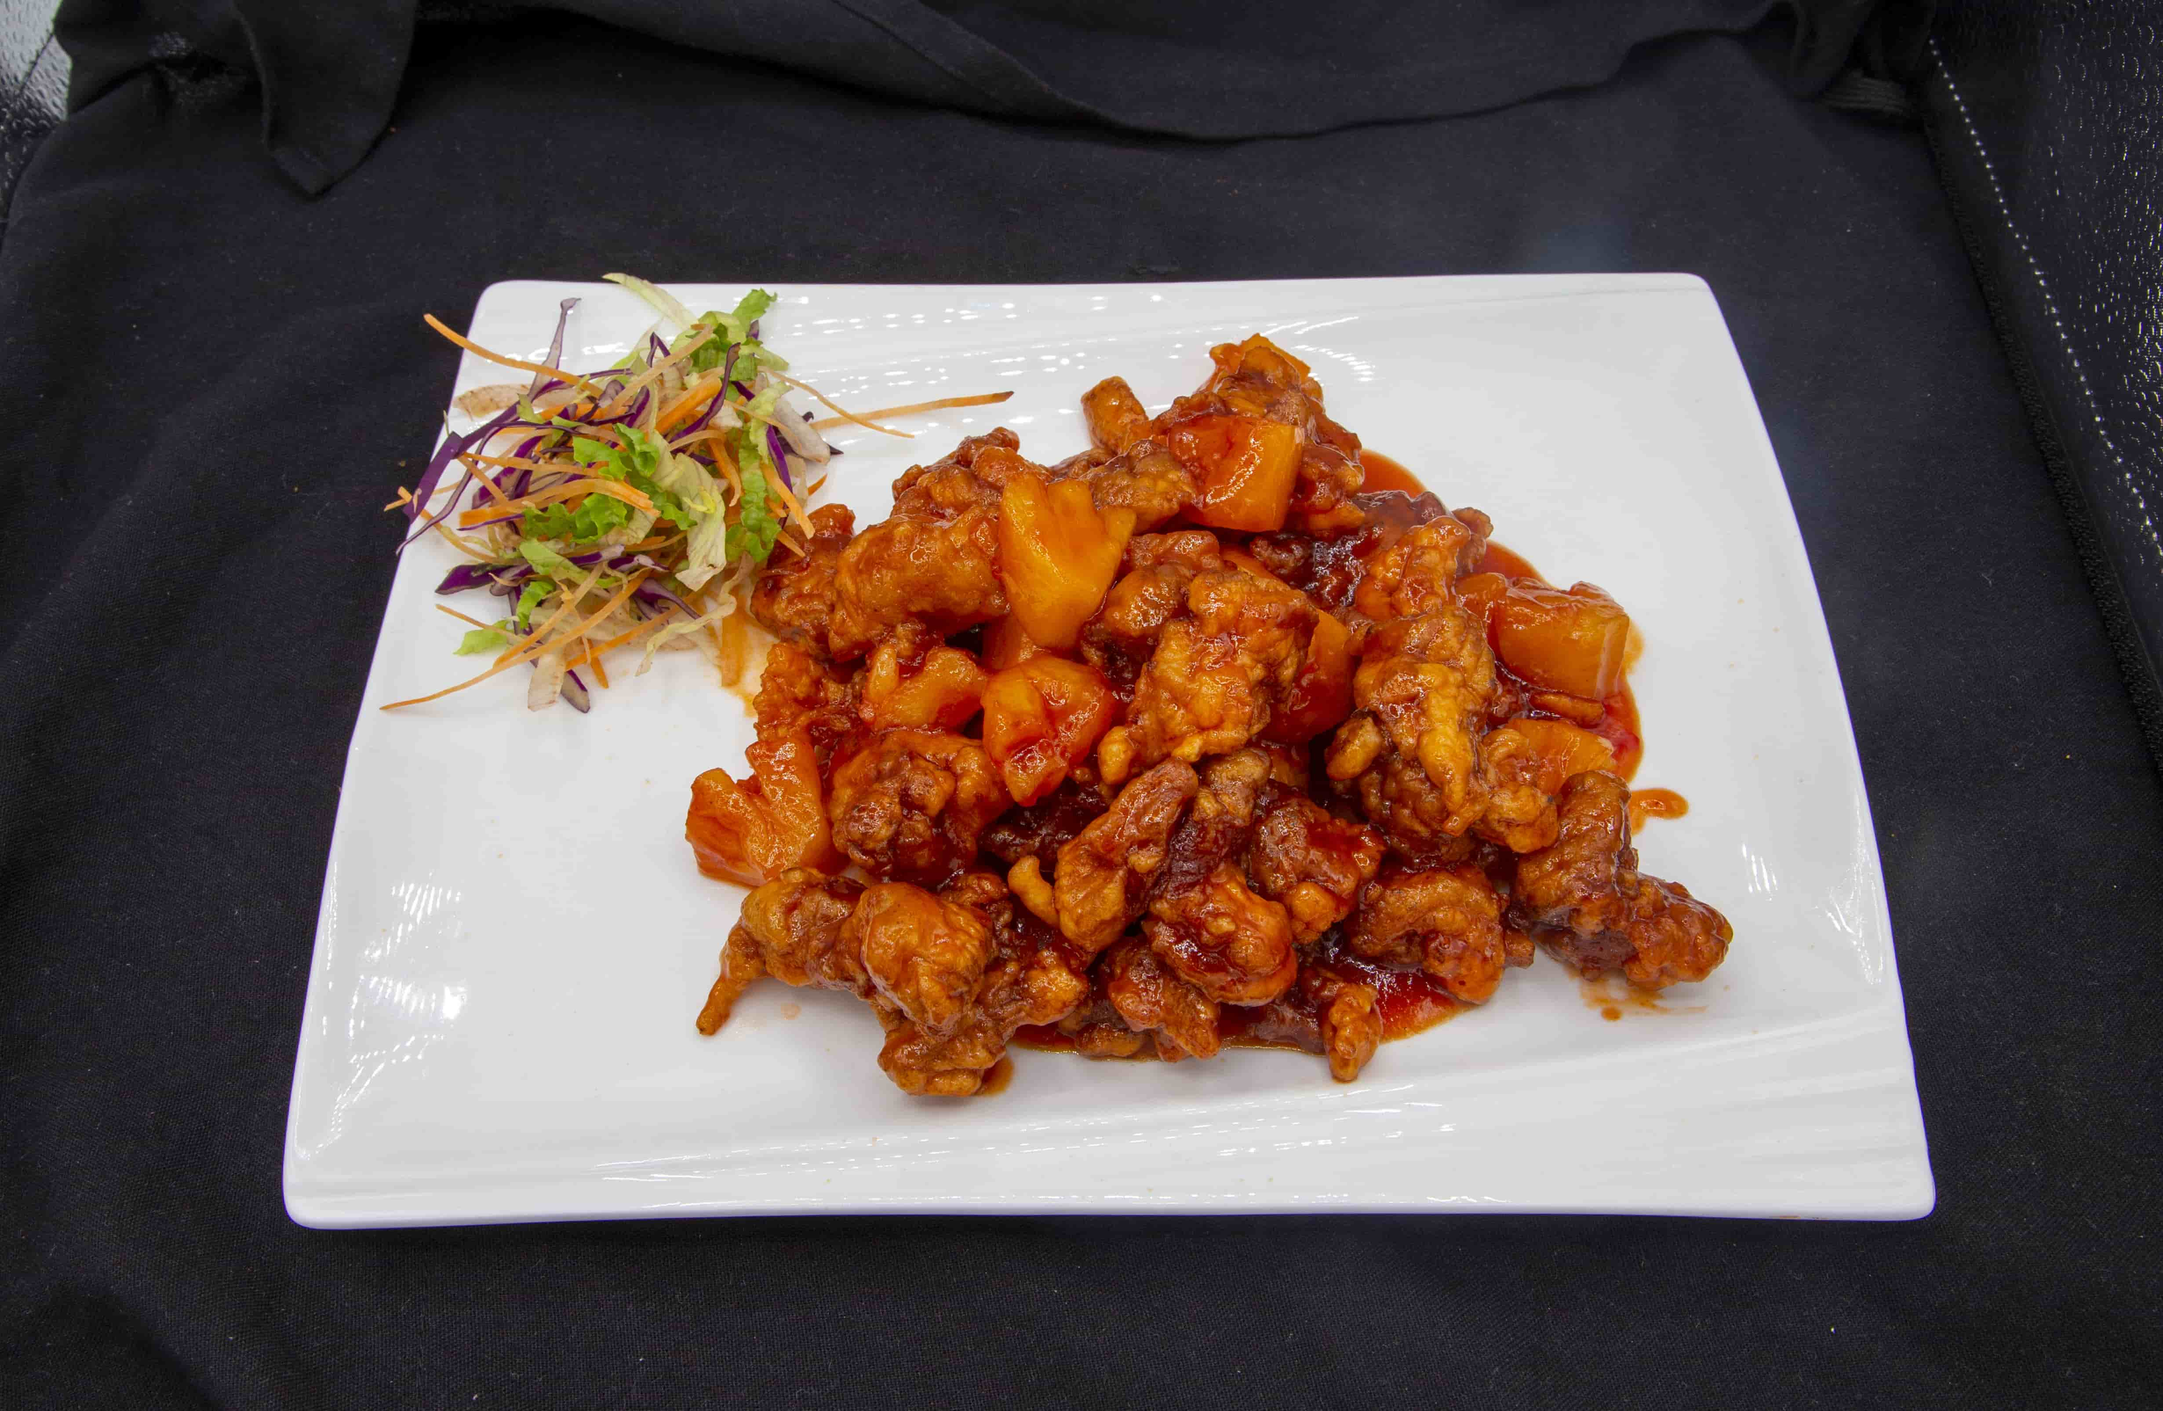
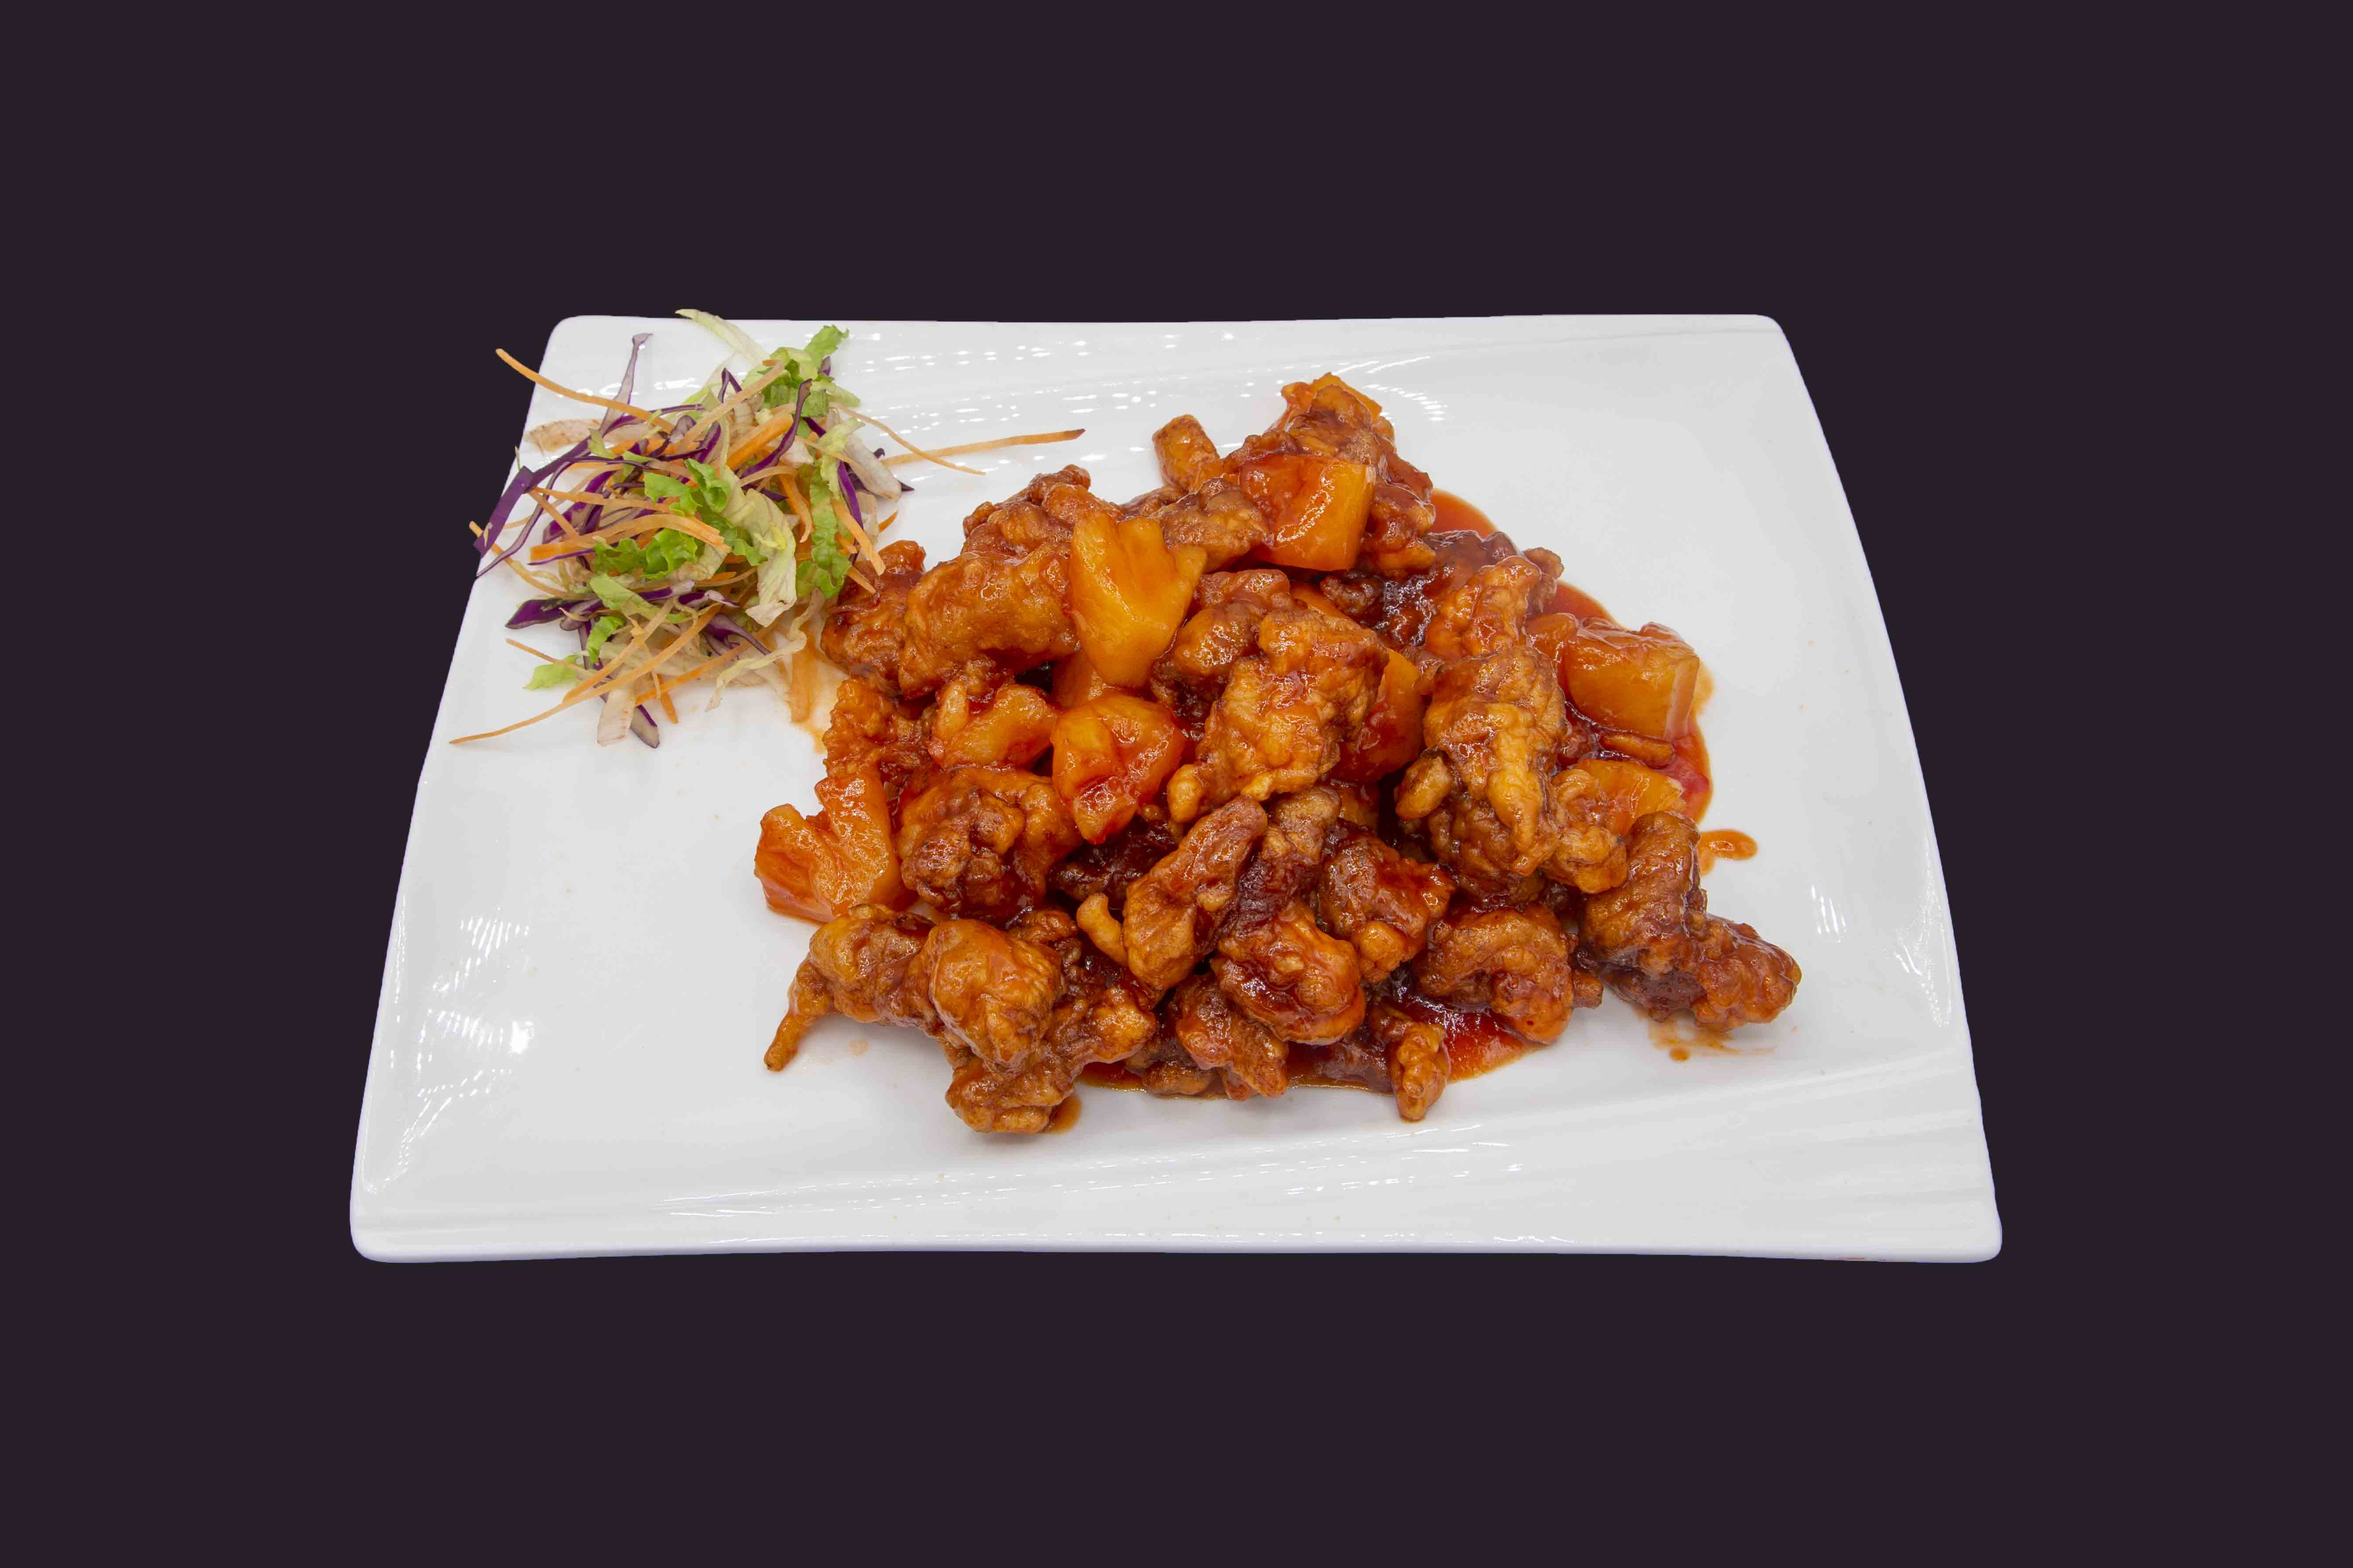
added more detail to item description

diff --git a/index.html b/index.html
@@ -765,7 +765,7 @@
 
                                 <div class="d-block d-md-flex menu-food-item">
                                     <div class="text order-1 mb-3">
-                                        <img src="images/logo.png" alt="Image">
+                                        <img src="images/ce/ce3-min.jpg" alt="Image">
                                         <h3>CE3. Sweet & Sour Shrimp with Pineapple</h3>
                                         <p>酸甜虾球</p>
                                     </div>
